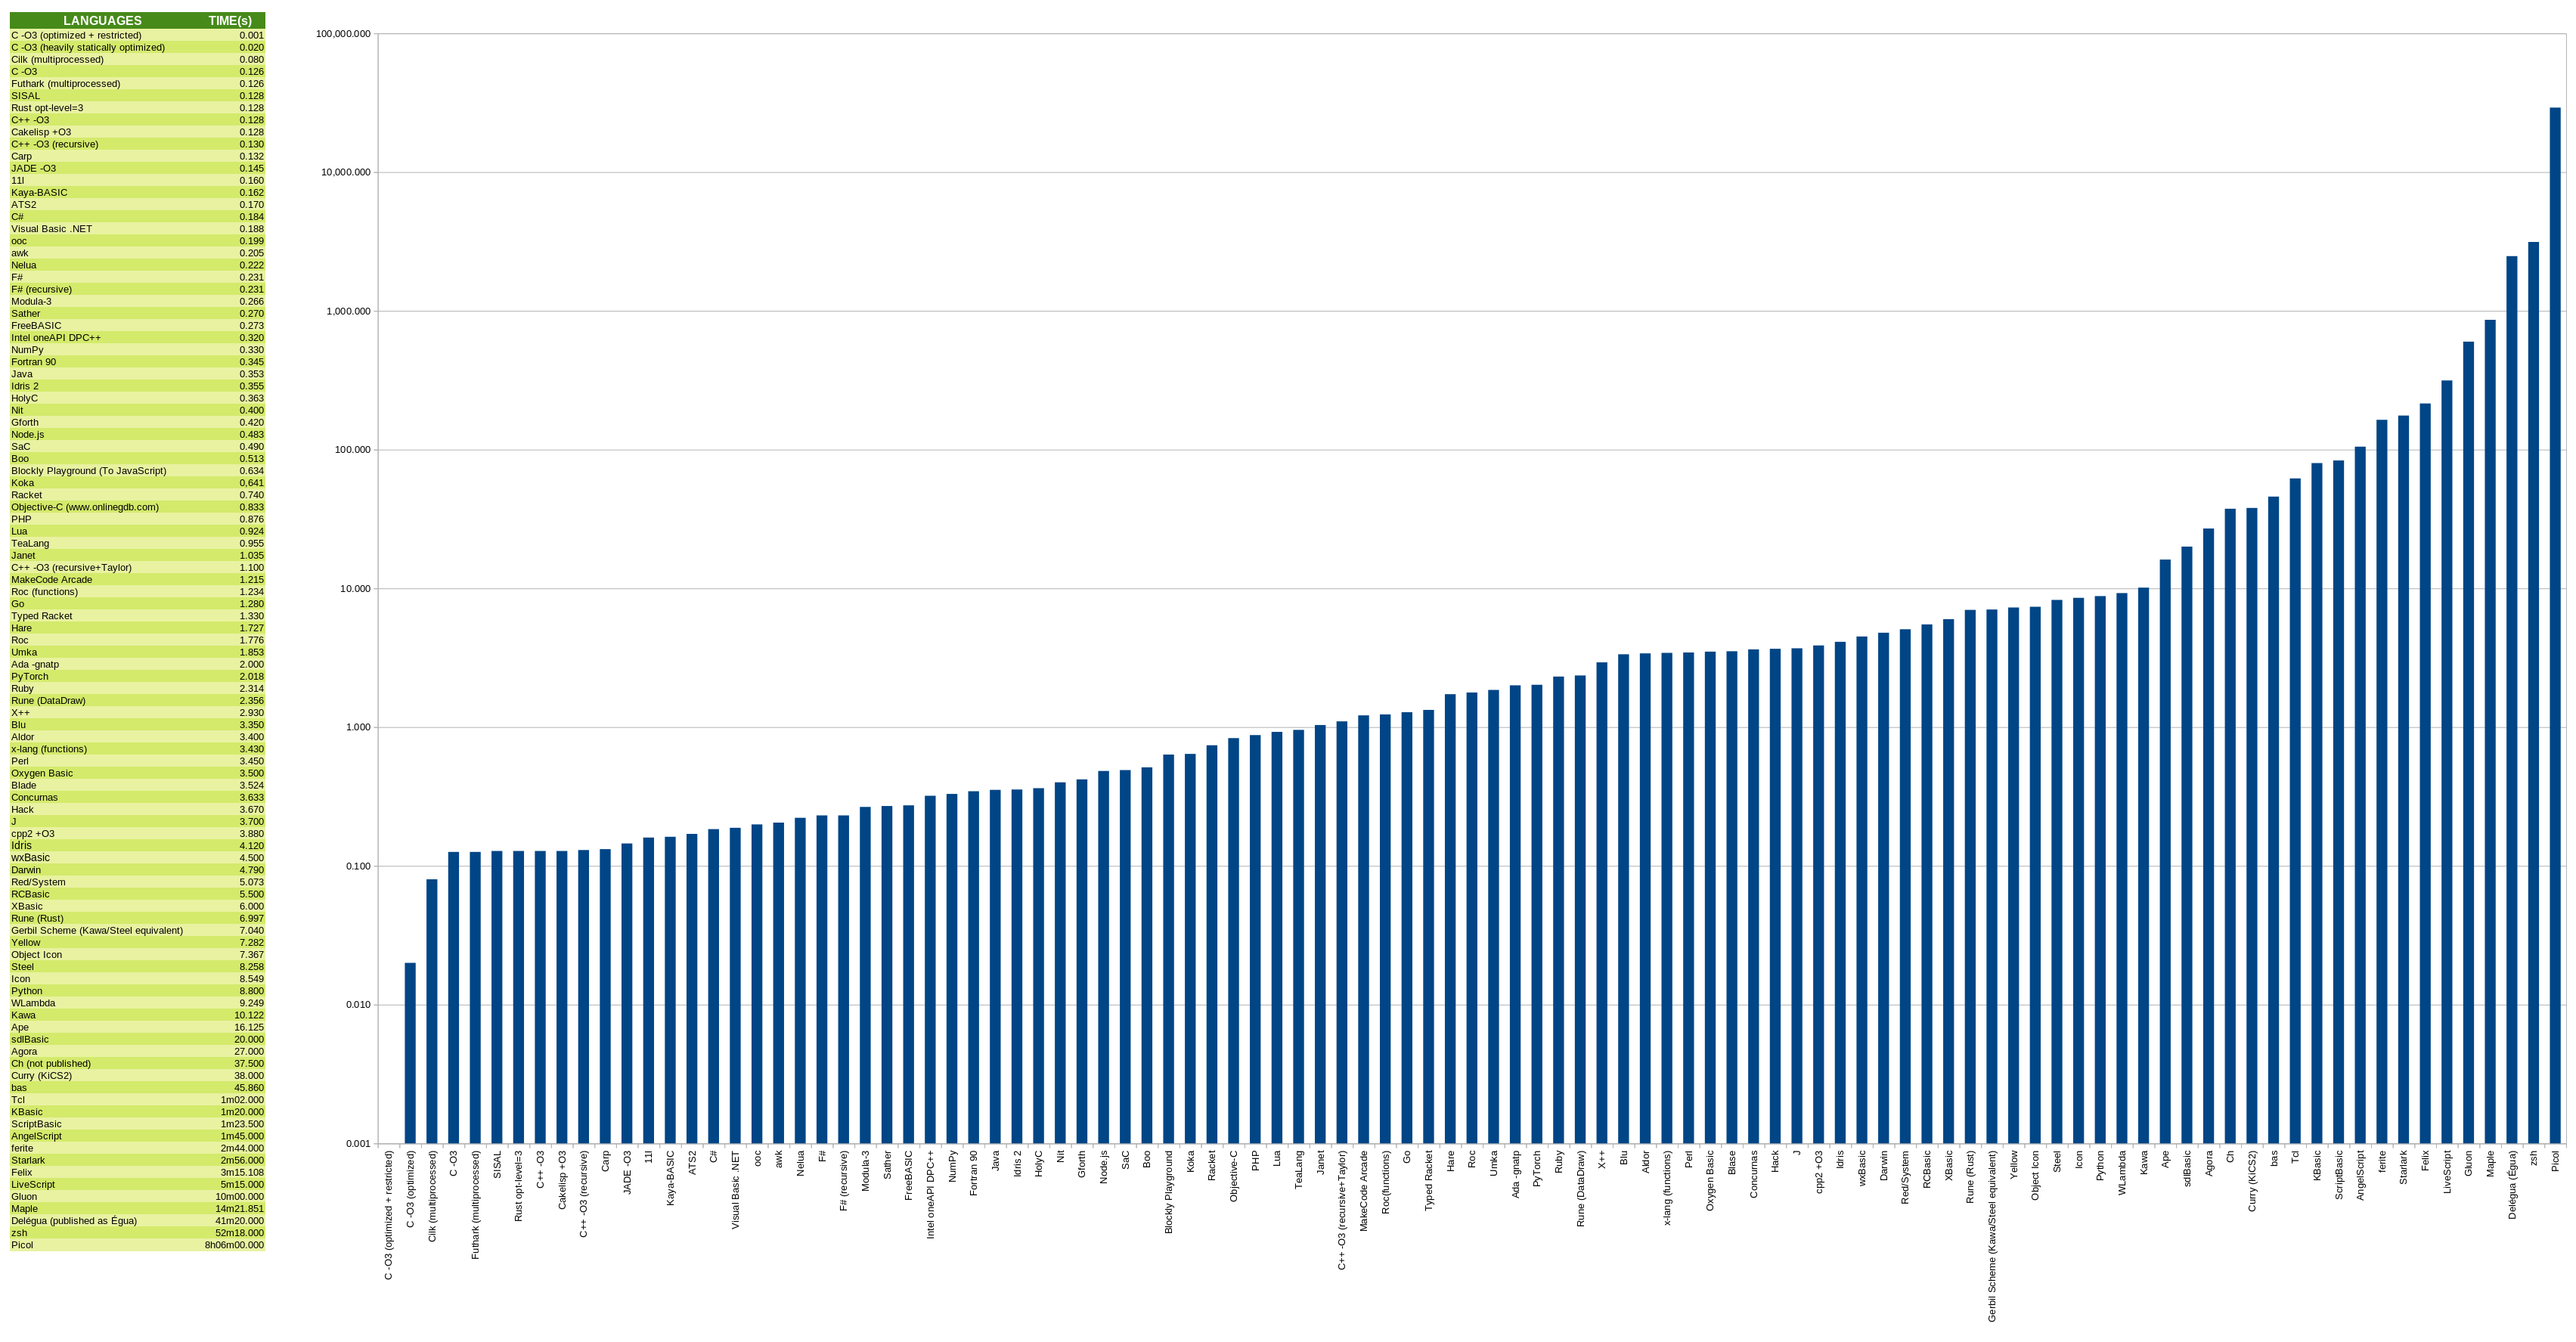
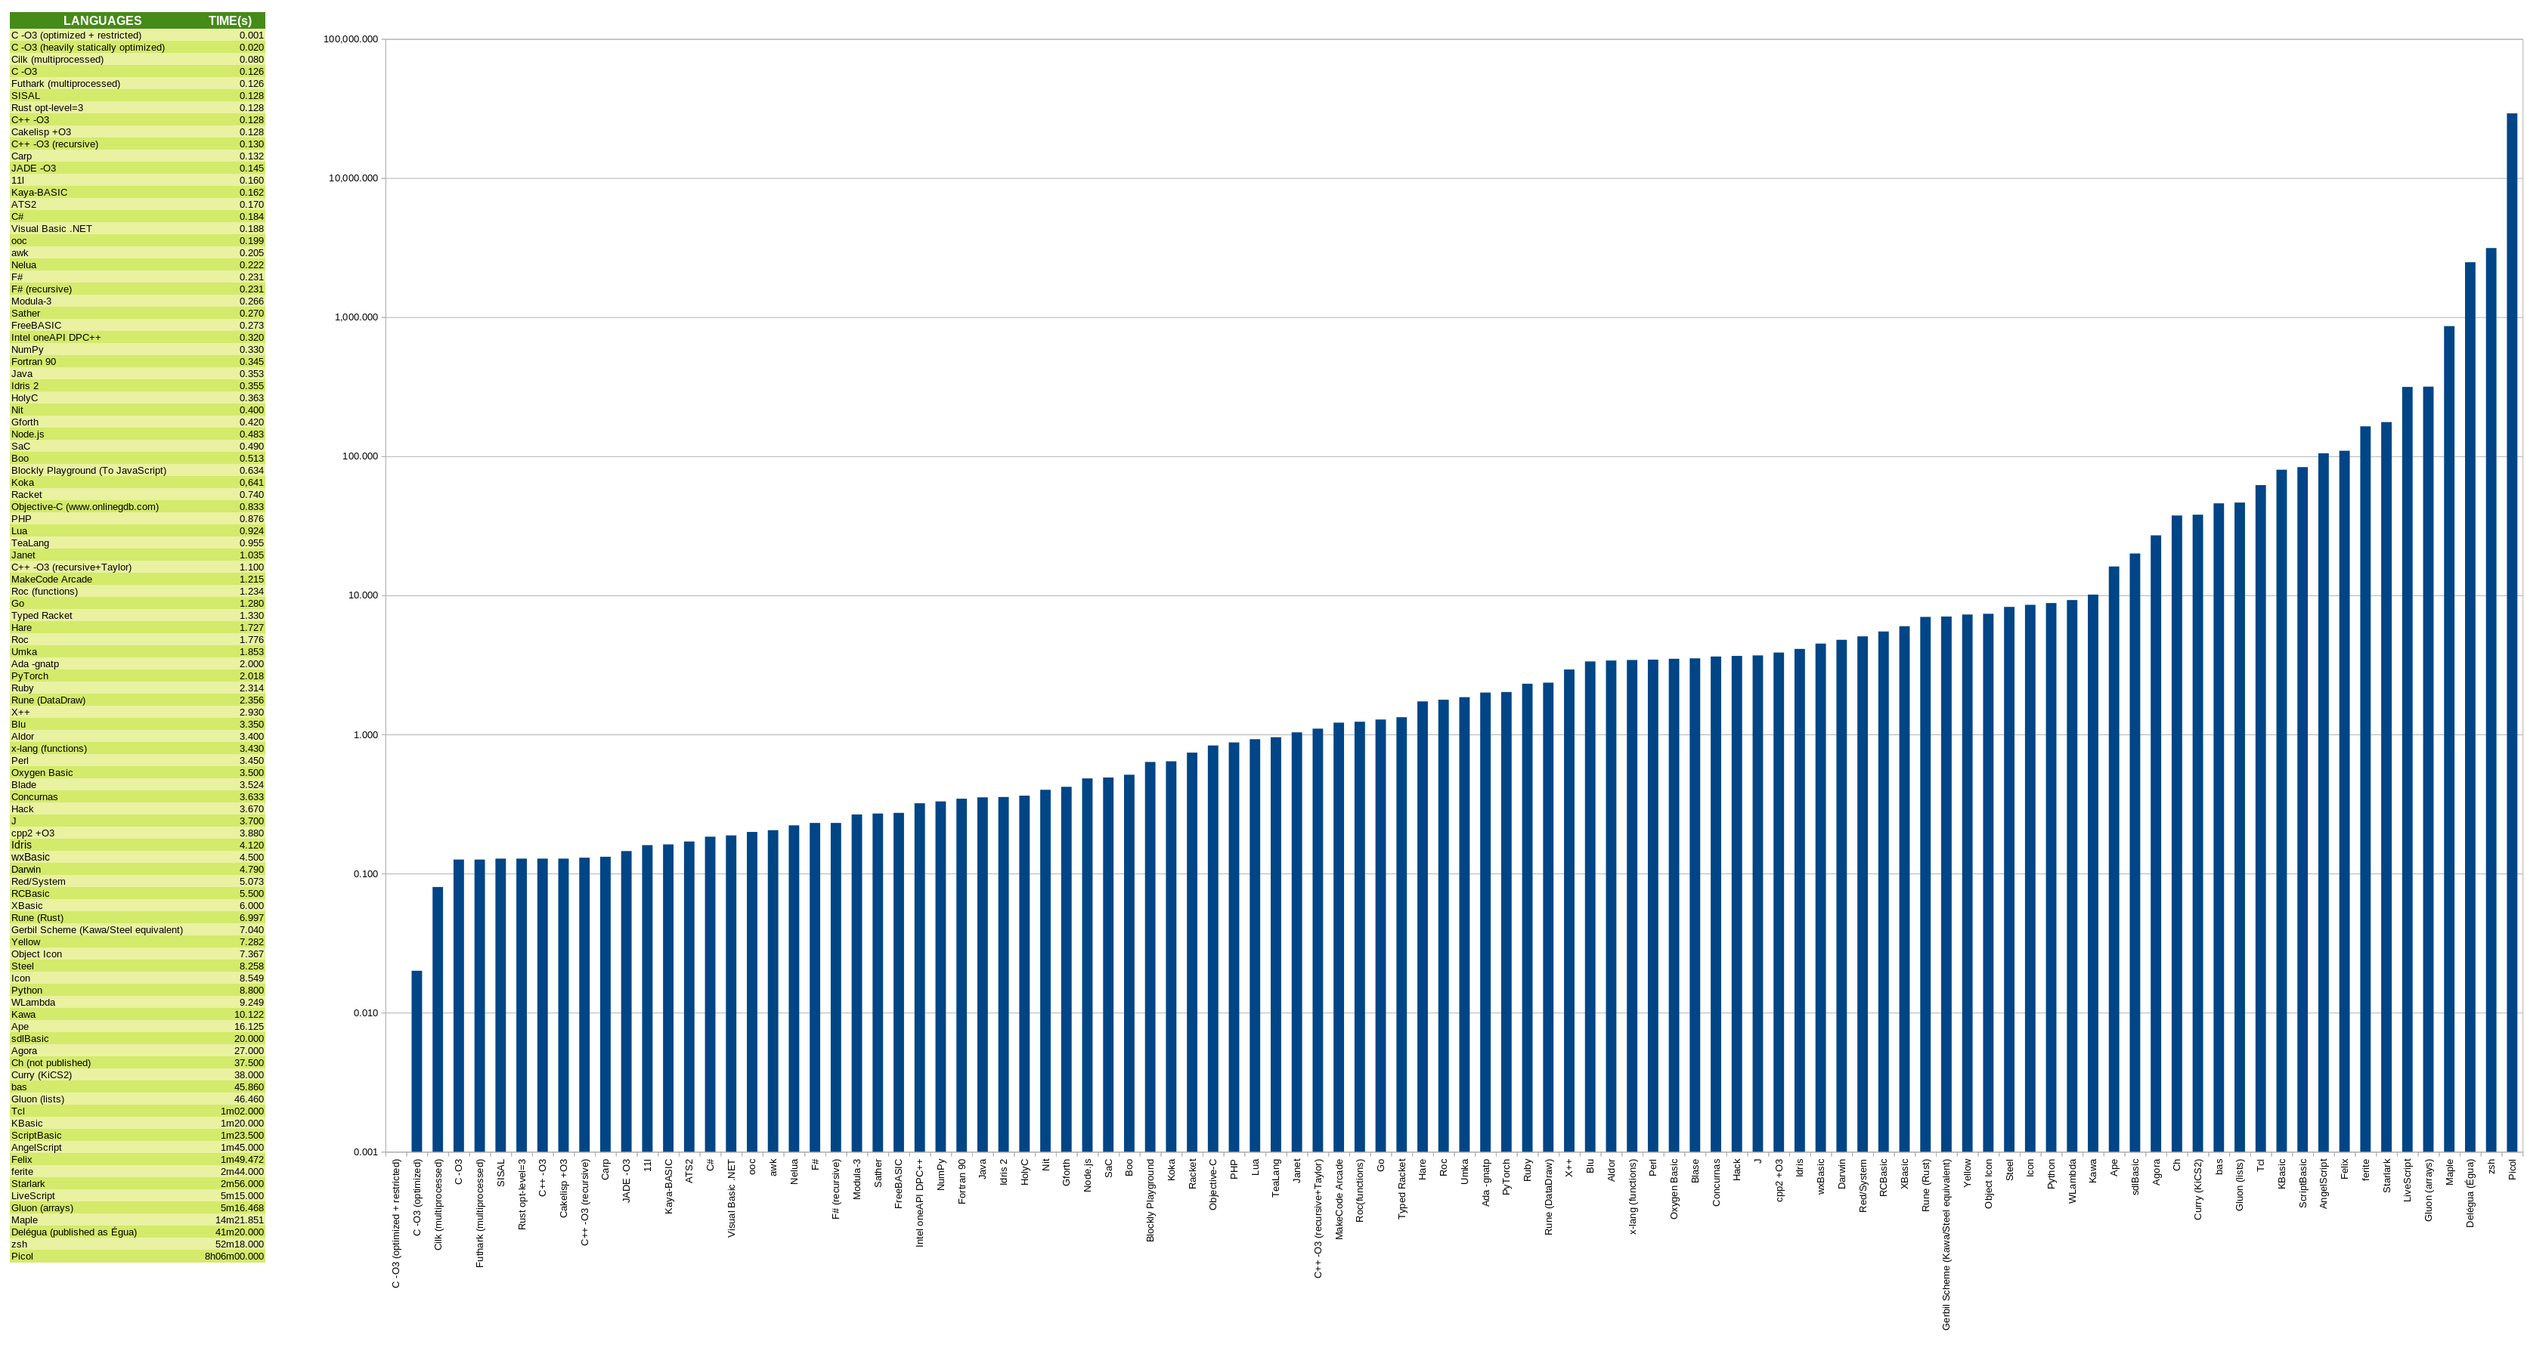
Add files via upload
+ TCO sobre Gluon

Changed region(s): [[0.0, 0.0, 1.0, 0.9296]]

diff --git a/SOLUCOES.md b/SOLUCOES.md
@@ -616,7 +616,8 @@ This is a list of links in this repository to solutions in different dialects, o
 
 ### Gluon (01/04/2026) 🧠 🔧 ♻ ✍
 
-[juros.glu](juros.glu)
+**arrays:** [juros.glu](juros.glu) + ➰<br>
+**listas / lists:** [jurosl.glu](jurosl.glu)
 
 ### Go (27/02/2024) 💖
 
